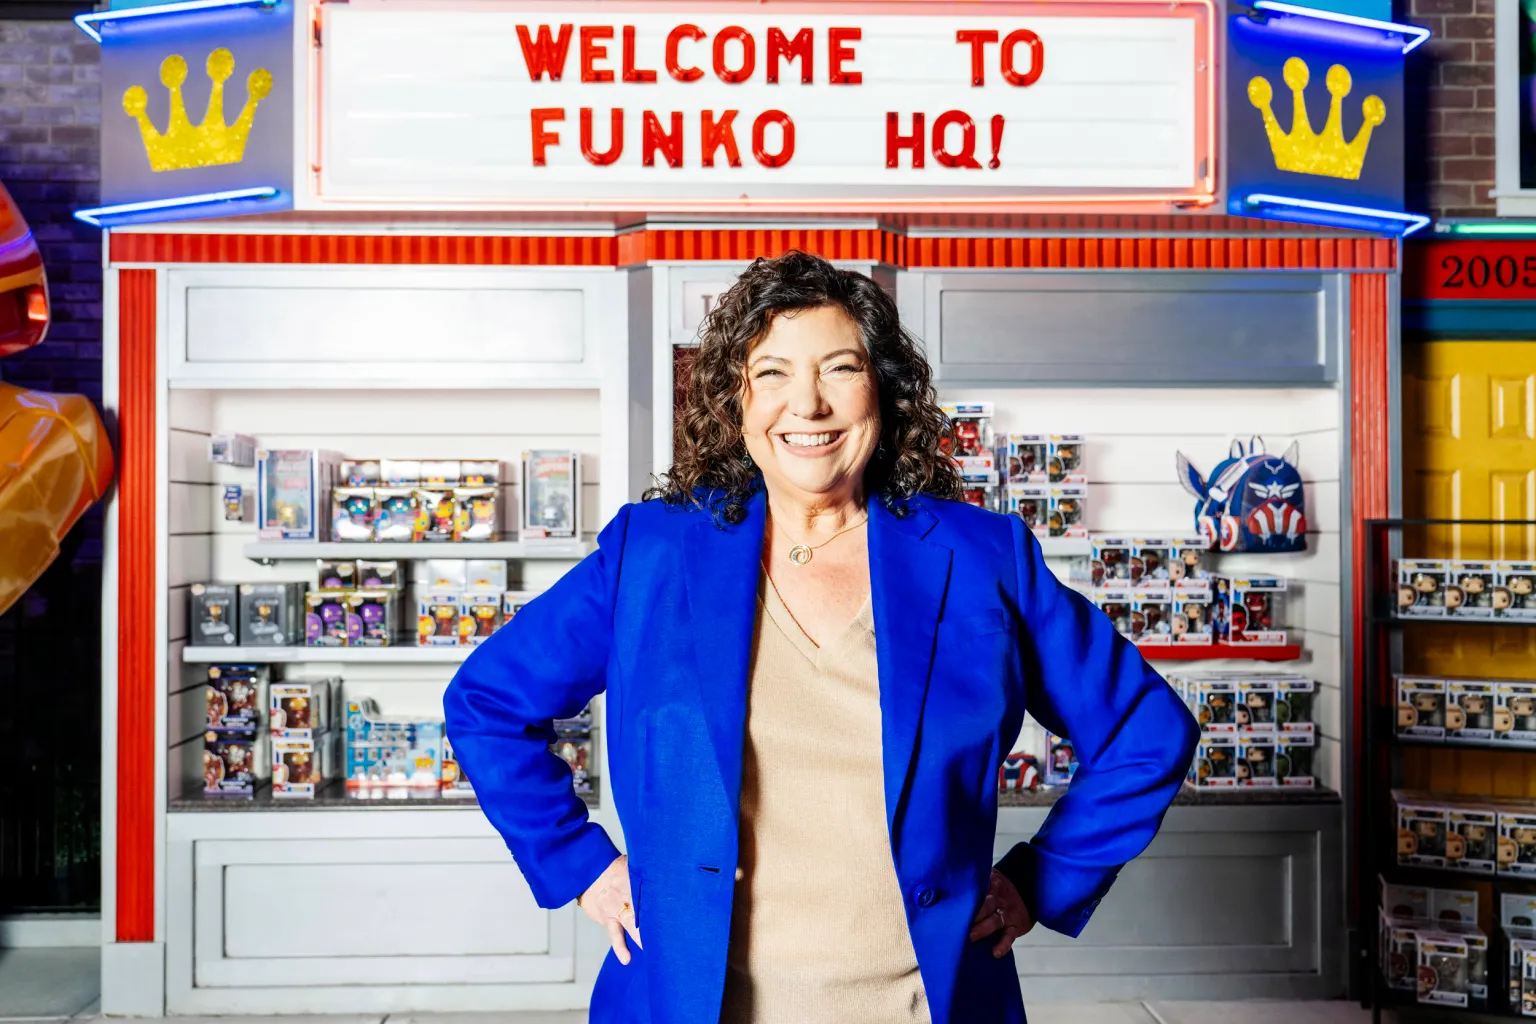
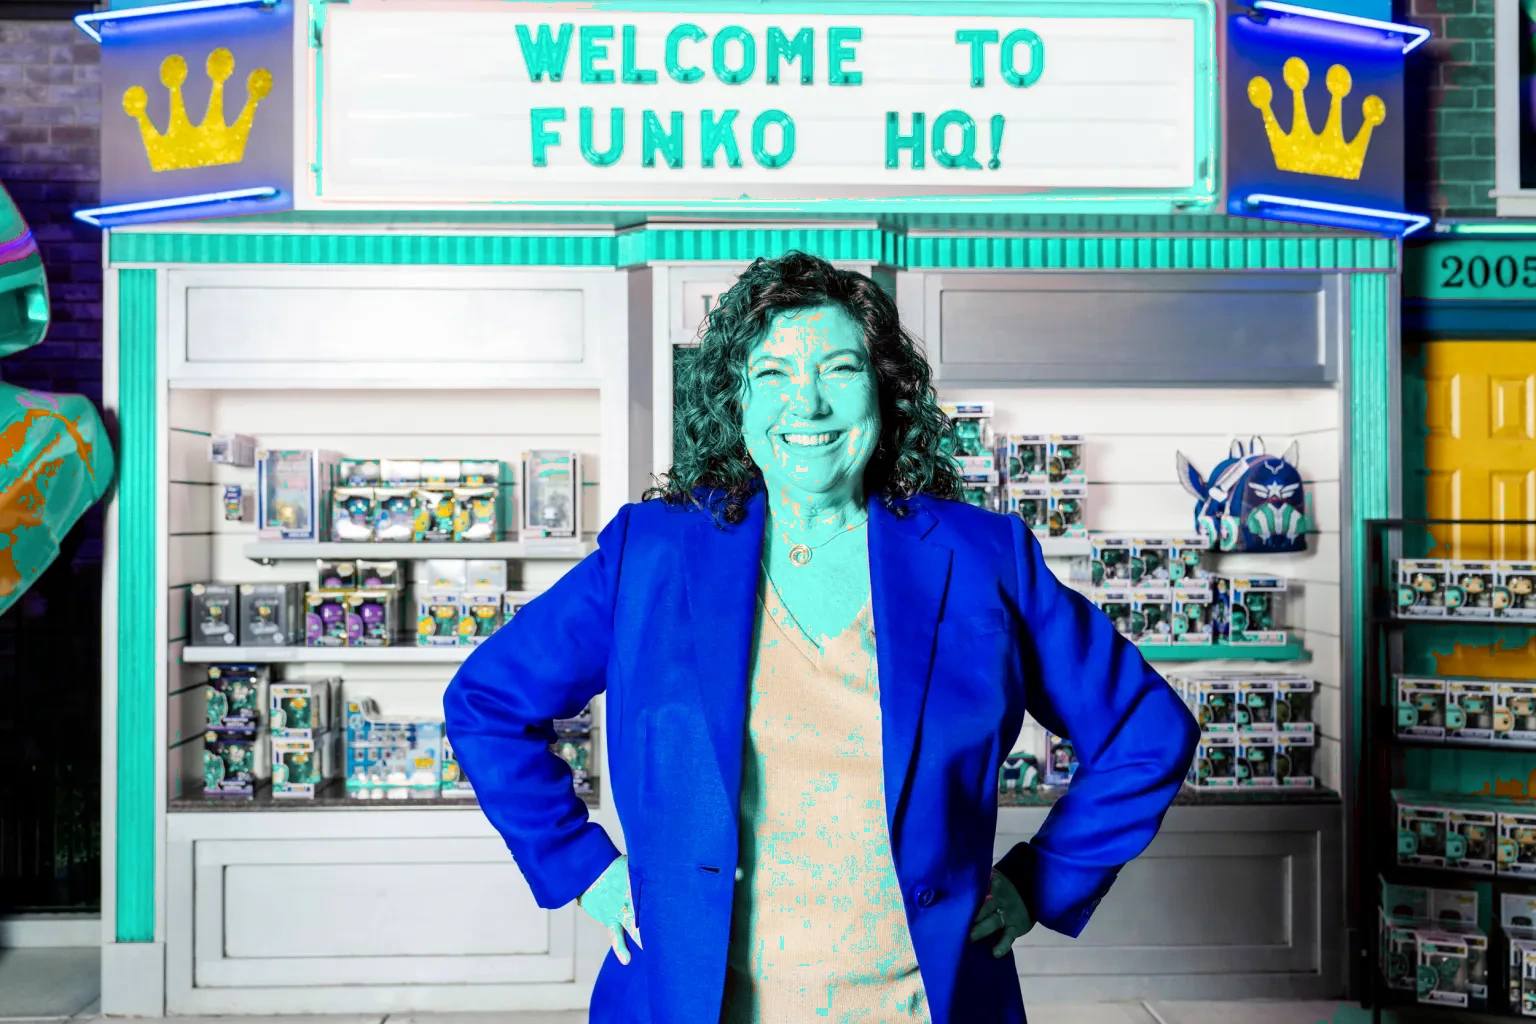
Swap red tones in random-ceo-lady to teal #14B8A6

diff --git a/scripts/swap-red-to-teal.py b/scripts/swap-red-to-teal.py
@@ -1,0 +1,107 @@
+"""Swap red-toned pixels in an image to #14B8A6, preserving luminance shading."""
+from __future__ import annotations
+
+import sys
+from colorsys import hsv_to_rgb, rgb_to_hsv
+from pathlib import Path
+
+import numpy as np
+from PIL import Image
+
+TARGET_HEX = "#14B8A6"
+TARGET_RGB = (0x14, 0xB8, 0xA6)
+
+
+def rgb_to_hsv_array(rgb: np.ndarray) -> tuple[np.ndarray, np.ndarray, np.ndarray]:
+    rf = rgb[..., 0].astype(np.float32) / 255.0
+    gf = rgb[..., 1].astype(np.float32) / 255.0
+    bf = rgb[..., 2].astype(np.float32) / 255.0
+    maxc = np.maximum(np.maximum(rf, gf), bf)
+    minc = np.minimum(np.minimum(rf, gf), bf)
+    delta = maxc - minc
+
+    hue = np.zeros_like(maxc)
+    mask = delta > 1e-6
+    rmax = mask & (maxc == rf)
+    gmax = mask & (maxc == gf)
+    bmax = mask & (maxc == bf)
+
+    hue[rmax] = ((gf[rmax] - bf[rmax]) / delta[rmax]) % 6.0
+    hue[gmax] = (bf[gmax] - rf[gmax]) / delta[gmax] + 2.0
+    hue[bmax] = (rf[bmax] - gf[bmax]) / delta[bmax] + 4.0
+    hue = hue / 6.0
+
+    sat = np.where(maxc > 0, delta / maxc, 0.0)
+    val = maxc
+    return hue, sat, val
+
+
+def hsv_to_rgb_array(h: np.ndarray, s: np.ndarray, v: np.ndarray) -> np.ndarray:
+    i = np.floor(h * 6.0).astype(np.int32)
+    f = h * 6.0 - i
+    p = v * (1.0 - s)
+    q = v * (1.0 - f * s)
+    t = v * (1.0 - (1.0 - f) * s)
+    i = i % 6
+
+    out = np.zeros((*h.shape, 3), dtype=np.float32)
+    for idx, (r, g, b) in enumerate([
+        (v, t, p), (q, v, p), (p, v, t), (p, q, v), (t, p, v), (v, p, q),
+    ]):
+        m = i == idx
+        out[m, 0] = r[m]
+        out[m, 1] = g[m]
+        out[m, 2] = b[m]
+
+    return np.clip(out * 255.0, 0, 255).astype(np.uint8)
+
+
+def red_tone_mask(hue: np.ndarray, sat: np.ndarray, val: np.ndarray) -> np.ndarray:
+    # Red / magenta hues in 0-1 scale; skip near-neutral pixels.
+    red_hue = (hue < 0.085) | (hue > 0.92)
+    return red_hue & (sat > 0.14) & (val > 0.08)
+
+
+def swap_red_tones(img: Image.Image) -> tuple[Image.Image, int]:
+    rgba = img.convert("RGBA")
+    arr = np.array(rgba)
+    rgb = arr[..., :3]
+    alpha = arr[..., 3]
+
+    hue, sat, val = rgb_to_hsv_array(rgb)
+    mask = red_tone_mask(hue, sat, val)
+    changed = int(np.sum(mask))
+
+    target_h, target_s, _ = rgb_to_hsv(
+        TARGET_RGB[0] / 255.0,
+        TARGET_RGB[1] / 255.0,
+        TARGET_RGB[2] / 255.0,
+    )
+
+    # Keep original brightness; use target hue with blended saturation.
+    new_h = np.where(mask, target_h, hue)
+    new_s = np.where(mask, np.maximum(target_s * 0.55, sat * 0.92), sat)
+    new_v = val
+
+    out_rgb = hsv_to_rgb_array(new_h, new_s, new_v)
+    out = np.dstack([out_rgb, alpha])
+    return Image.fromarray(out, "RGBA"), changed
+
+
+def main() -> int:
+    src = Path(sys.argv[1]) if len(sys.argv) > 1 else Path(
+        "src/holder/random-ceo-lady.webp"
+    )
+    if not src.is_file():
+        print(f"Missing file: {src}", file=sys.stderr)
+        return 1
+
+    img = Image.open(src)
+    result, changed = swap_red_tones(img)
+    result.save(src, "WEBP", quality=92, method=6)
+    print(f"Updated {src} ({changed} red-toned pixels remapped to {TARGET_HEX})")
+    return 0
+
+
+if __name__ == "__main__":
+    raise SystemExit(main())
